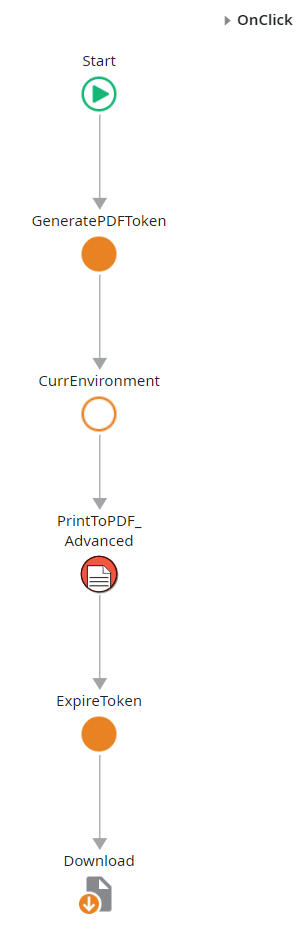
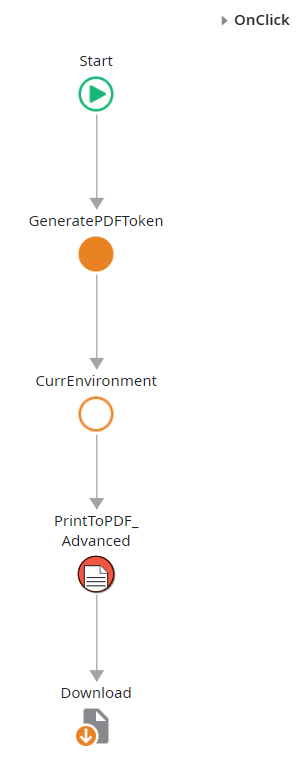
Documentation about save pdf with Rest endpoints

Changed region(s): [[0.0903, 0.0601, 0.5418, 0.9909], [0.7826, 0.0, 0.9632, 0.03], [0.7224, 0.0, 0.7525, 0.03]]

diff --git a/README.md b/README.md
@@ -64,9 +64,9 @@ Use ODC Studio to publish the modules
 The simplest way to generate a PDF is by:
 
 1. Create an empty screen
-2. Add to the screen the web block PrintLayout (from UltimatePDF)
-3. Build the report
-4. Call the action PrintToPDF to grnerate the PDF (from UltimatePDF)
+1. Add to the screen the web block `PrintLayout` (from UltimatePDF)
+1. Build the report
+1. Call the server action `PrintToPDF` to grnerate the PDF (from UltimatePDF)
 
 <p align="right">(<a href="#readme-top">back to top</a>)</p>
 
@@ -74,21 +74,26 @@ The simplest way to generate a PDF is by:
 
 ### Prerequisites
 
-In the instructions bellow we will assume that the application that is generating the PDFs was created based on Template_UltimatePDF
+In the instructions bellow we will assume that the application that is generating the PDFs was created based on Template_UltimatePDF. This Template creates an application that contains:
+* REST API `pdf` - that implements an API to store the PDF on the application
+* Entity `GeneratePDF` - contains onformation for token authentication for the the pages
+* Entity `GeneratedPDF_Files` - entity where the REST API saves the PDF files
+* Entity `GeneratedPDF_Logs` - entity where the REST API saves the Log files
 
 ### Advance PDF Generation
 
 1. Create a Flow named *Print*, if not present
-2. Add an empty screen
-3. Under the Authorization properties, select `Everyone`
-4. Add an input parameter named `Token` (Data Type = Text, Is Mandatory = Yes)
-5. Delete the web block `Layouts\LayoutTopMenu`
-6. Fill the screen with the information to have in the PDF
-7. Add `On Initialize` event, and add a call to IsPDFTokenValid with the `Token` as parameter
-8. Add a if clause `IsPDFTokeValid.Valid`, and end the *False* branch with and exception `PDFTokenExpired`
-9. On another screen create a button to generate the PDF
-10. Call the Server Action `GeneratePDFToken`
-11. Call the Server Action `PrintToPDF_Advanced`
+1. Add an empty screen
+1. Under the Authorization properties, select `Everyone`
+1. Add an input parameter named `Token` (Data Type = Text, Is Mandatory = Yes)
+1. Delete the web block `Layouts\LayoutTopMenu`
+1. Fill the screen with the information to have in the PDF
+1. Add `On Initialize` event, and add a call to IsPDFTokenValid with the `Token` as parameter
+1. Add a if clause `IsPDFTokeValid.Valid`, and end the *False* branch with and exception `PDFTokenExpired`
+1. Add `On Ready` event, and add a call to `ExpireToken` with the `Token` as parameter
+1. On another screen create a button to generate the PDF
+1. Call the Server Action `GeneratePDFToken`
+1. Call the Server Action `PrintToPDF_Advanced`
   * URL - url for the page to be generated. In this example, the screen created at _2._
   * Environment - information of the environment where the browser will be launched. Can use the output of the Client Action `CurrEnvironment`
   * PaperSize - Paper size mesures separated by _x_ (eg: "21.00x29.70"). Can use the Static Entity `PaperSize` from `UltimatePDF`
@@ -99,8 +104,7 @@ In the instructions bellow we will assume that the application that is generatin
   * RestCaller - REST API information for the external logic to store the PDF and the LogsZipFile.
   * PDF _(Output parameter)_ - The PDF file binary data. Empty if RestCaller is passed.
   * LogsZipFile _(Output parameter)_ - The logs of the external logic execution. Empty if RestCaller is passed.
-12. Call the Server Action `ExpireToken`
-13. Call Download with the output parameter *PDF* of the Server Action `PrintToPDF_Advanced`
+1. Call Download with the output parameter *PDF* of the Server Action `PrintToPDF_Advanced`
 
 ![on-initialize] ![on-click]
 
@@ -122,6 +126,29 @@ In the instructions bellow we will assume that the application that is generatin
 1. End the flow with a destination to the screen created at 2.
 
 ![on-initialize-screen]![on-ready-screen]![on-click-screen]
+
+### External Logic call Rest API to store the PDF
+
+The Template_UltimatePDF already creates a REST API named *pdf* with two methods *Store* and *StoreLogs*. The external logic expects the REST API to be implemented as POST methods with binary data as the body of the request. The API call uses the `Token` paramter as an authorization header.
+
+1. Create a Flow named *Print*, if not present
+1. Add an empty screen
+1. Under the Authorization properties, select `Everyone`
+1. Add an input parameter named `Token` (Data Type = Text, Is Mandatory = Yes)
+1. Delete the web block `Layouts\LayoutTopMenu`
+1. Fill the screen with the information to have in the PDF
+1. Add `On Initialize` event, and add a call to IsPDFTokenValid with the `Token` as parameter
+1. Add a if clause `IsPDFTokeValid.Valid`, and end the *False* branch with and exception `PDFTokenExpired`
+1. On another screen create a button to generate the PDF
+1. Call the Server Action `GeneratePDFToken`
+1. Call the Server Action `PrintToPDF_Advanced`, fill the RestCaller parameter
+  * Token - The token of the printable page, we use it for REST API authentication.
+  * BaseUrl - base tenant url, eg: _https://tenant.outsystems.com_
+  * Module - Name of the module that implements the REST API, can use `GetOwnerURLPath()`
+  * StorePath - Rest method URL Path to store the PDF, eg: `/rest/pdf/Store`
+  * LogPath - Rest method URL Path to store the logs, eg: `/rest/pdf/StoreLogs`
+  * The PDF will be stored at the entity `GeneratedPDF_Files`
+  * The Logs will be stored at the entity `GeneratedPDF_Logs`, if requested
 
 ## License
 
